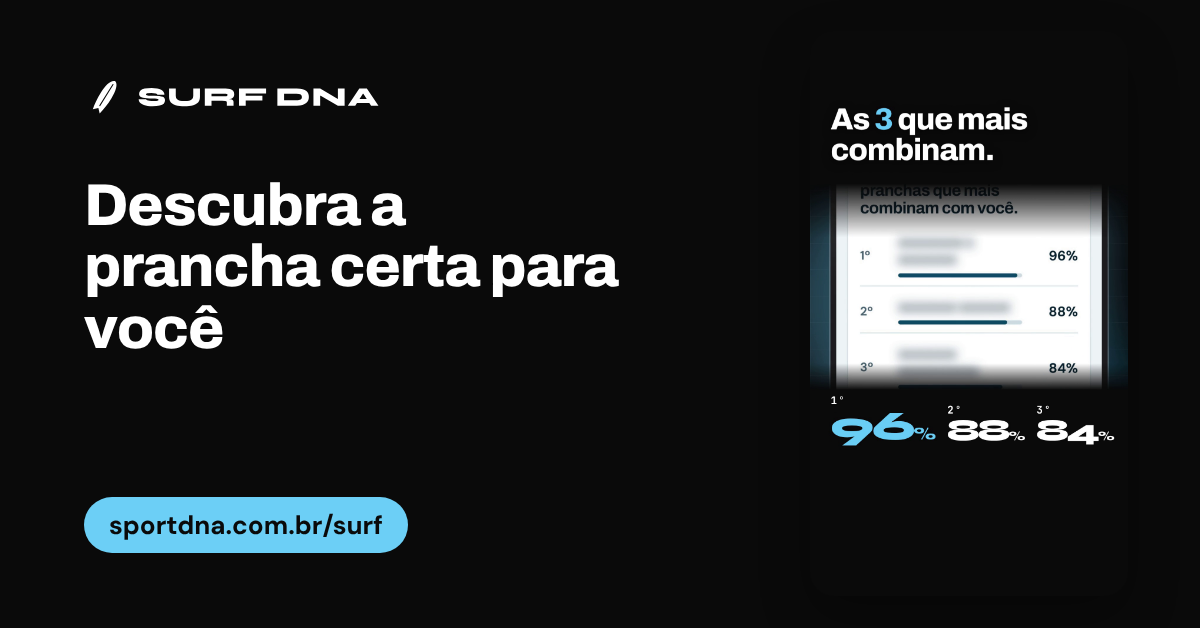
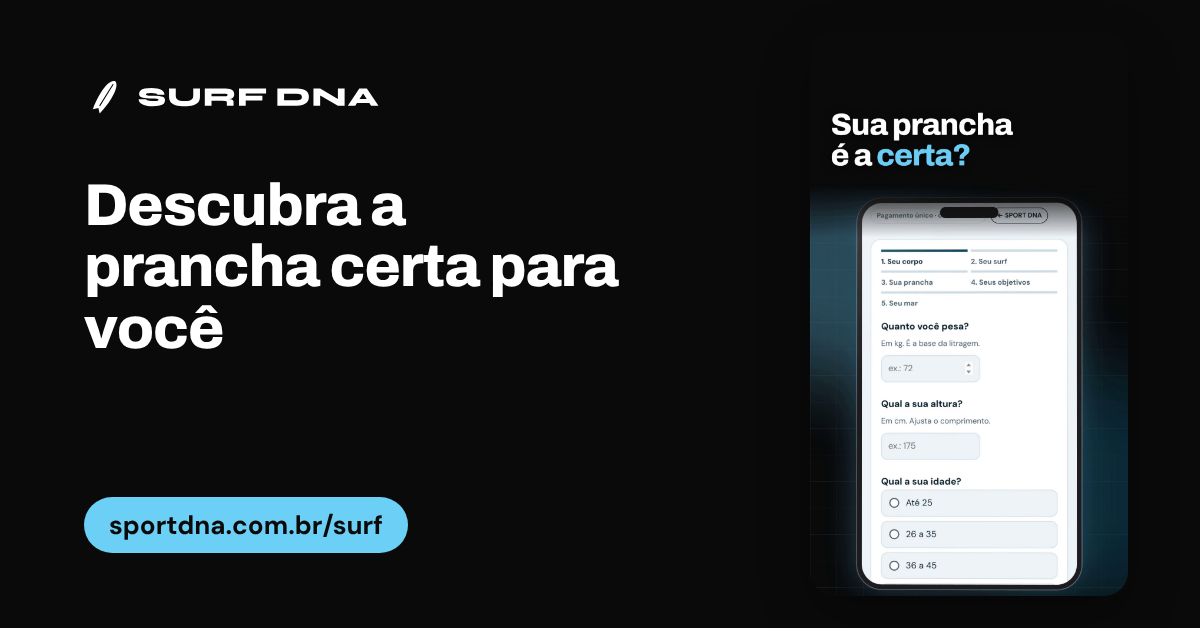
SF-03-v1: estáticos 1:1 e 1,91:1 refeitos com o quadro do gancho [CF-Pages-Skip]
Claude-Session: https://claude.ai/code/session_01CihTiD7RyBtRUWPorkw255

Changed region(s): [[0.6783, 0.3025, 0.9558, 0.9682], [0.6783, 0.1815, 0.8633, 0.2723]]

diff --git a/ads/aprovados/INDEX.md b/ads/aprovados/INDEX.md
@@ -109,3 +109,6 @@ Cada pasta tem os arquivos nomeados por posicionamento e um LEIA-ME.md com copy,
 - Aprovados agora: RZ-10-v2, RZ-11-v2, RZ-14-v2 (casal · R$ 13,99, link ?m=casal), RK-01-v8, QD-11-v4, QD-15-v3. Pastas completas com todas as dimensões.
 - Nenhum AD aguardando o Gui.
 - RZ-10/11/14 v1 (R$ 8,99) ficam para a promo de 01 a 31/12.
+
+## 15/11 · SF-03-v1: estáticos refeitos
+- O Gui reprovou a 1ª versão dos estáticos 1:1 e 1,91:1 do SF-03 (quadro das 3 pranchas, com nomes borrados). Os arquivos foram refeitos com o quadro do gancho ("Sua prancha é a certa?" + tela do teste) e substituem os anteriores, com os mesmos nomes. Pela regra do formato principal, valem sem nova aprovação.
